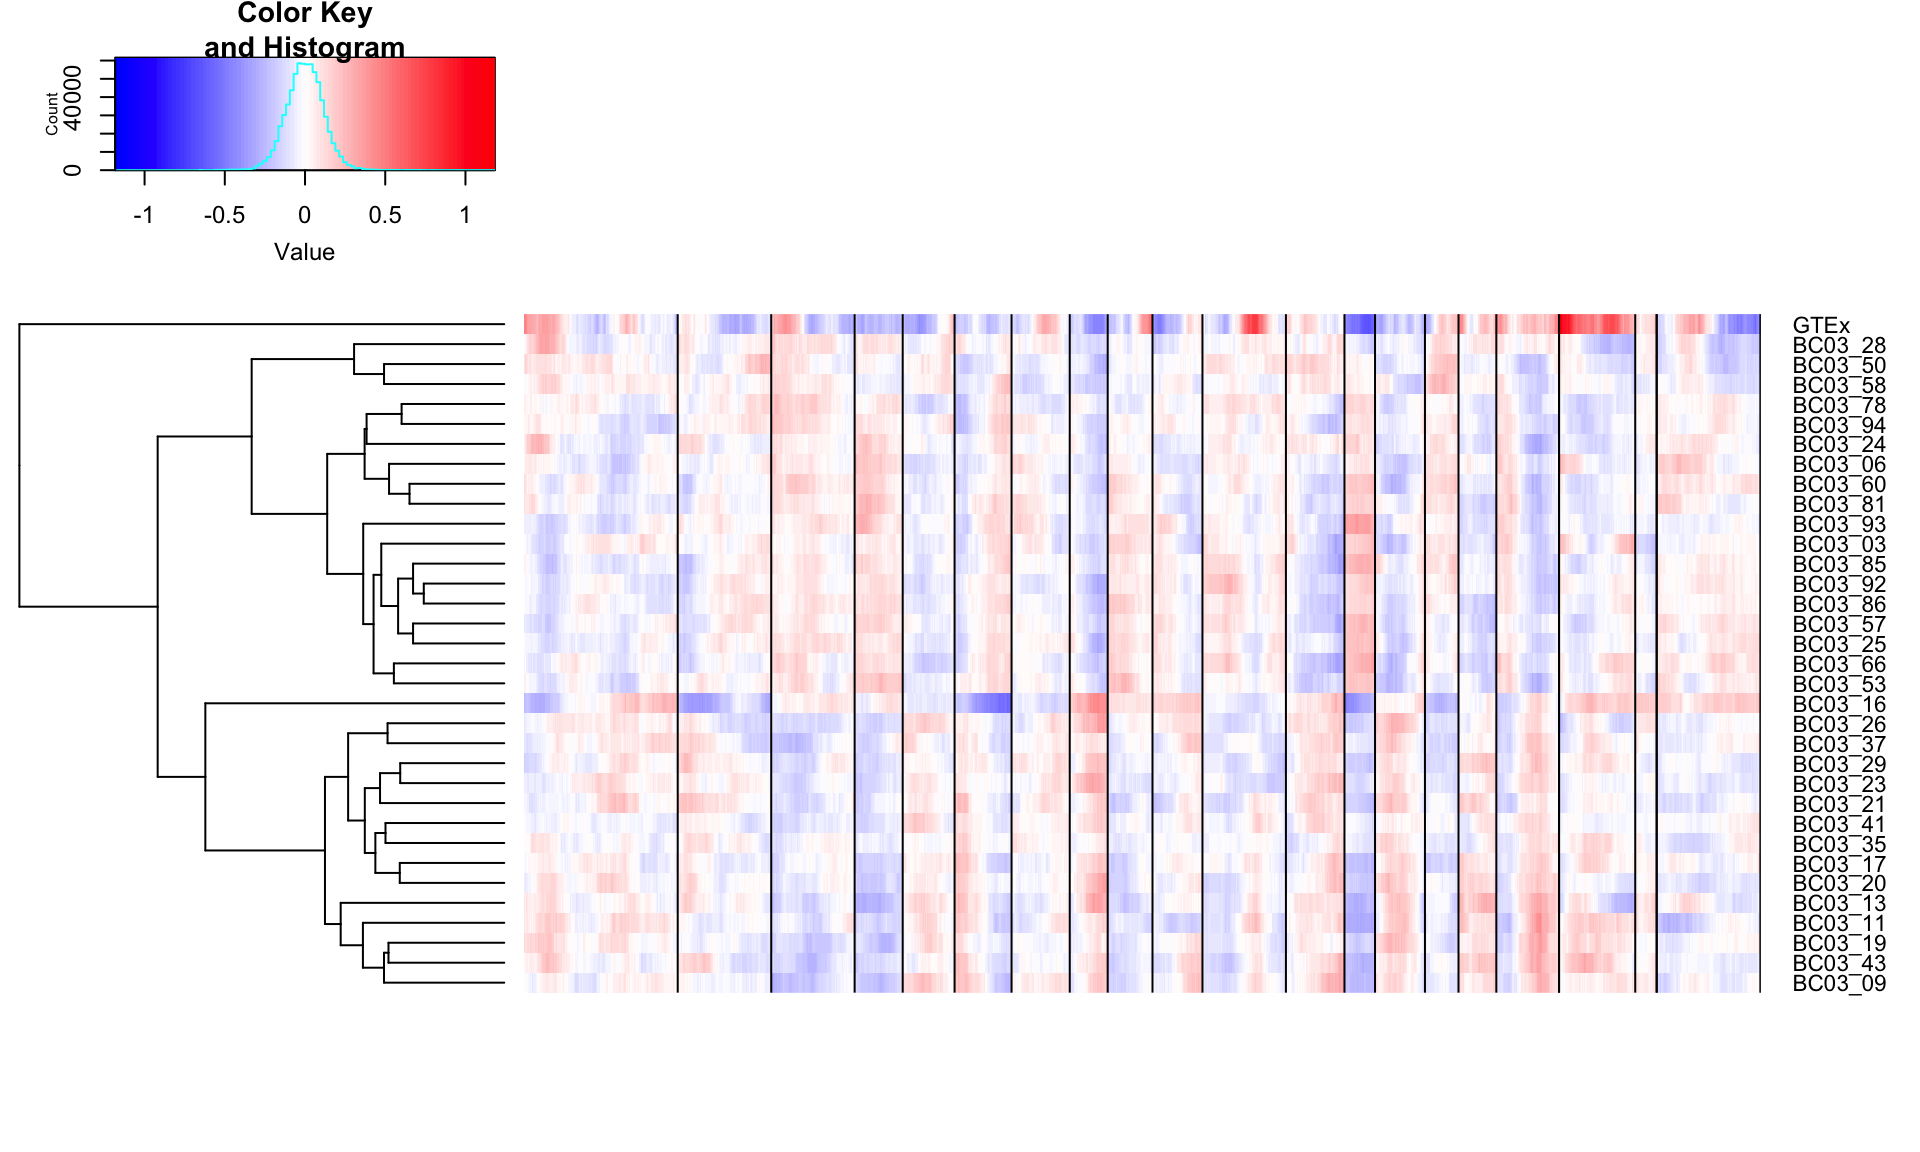
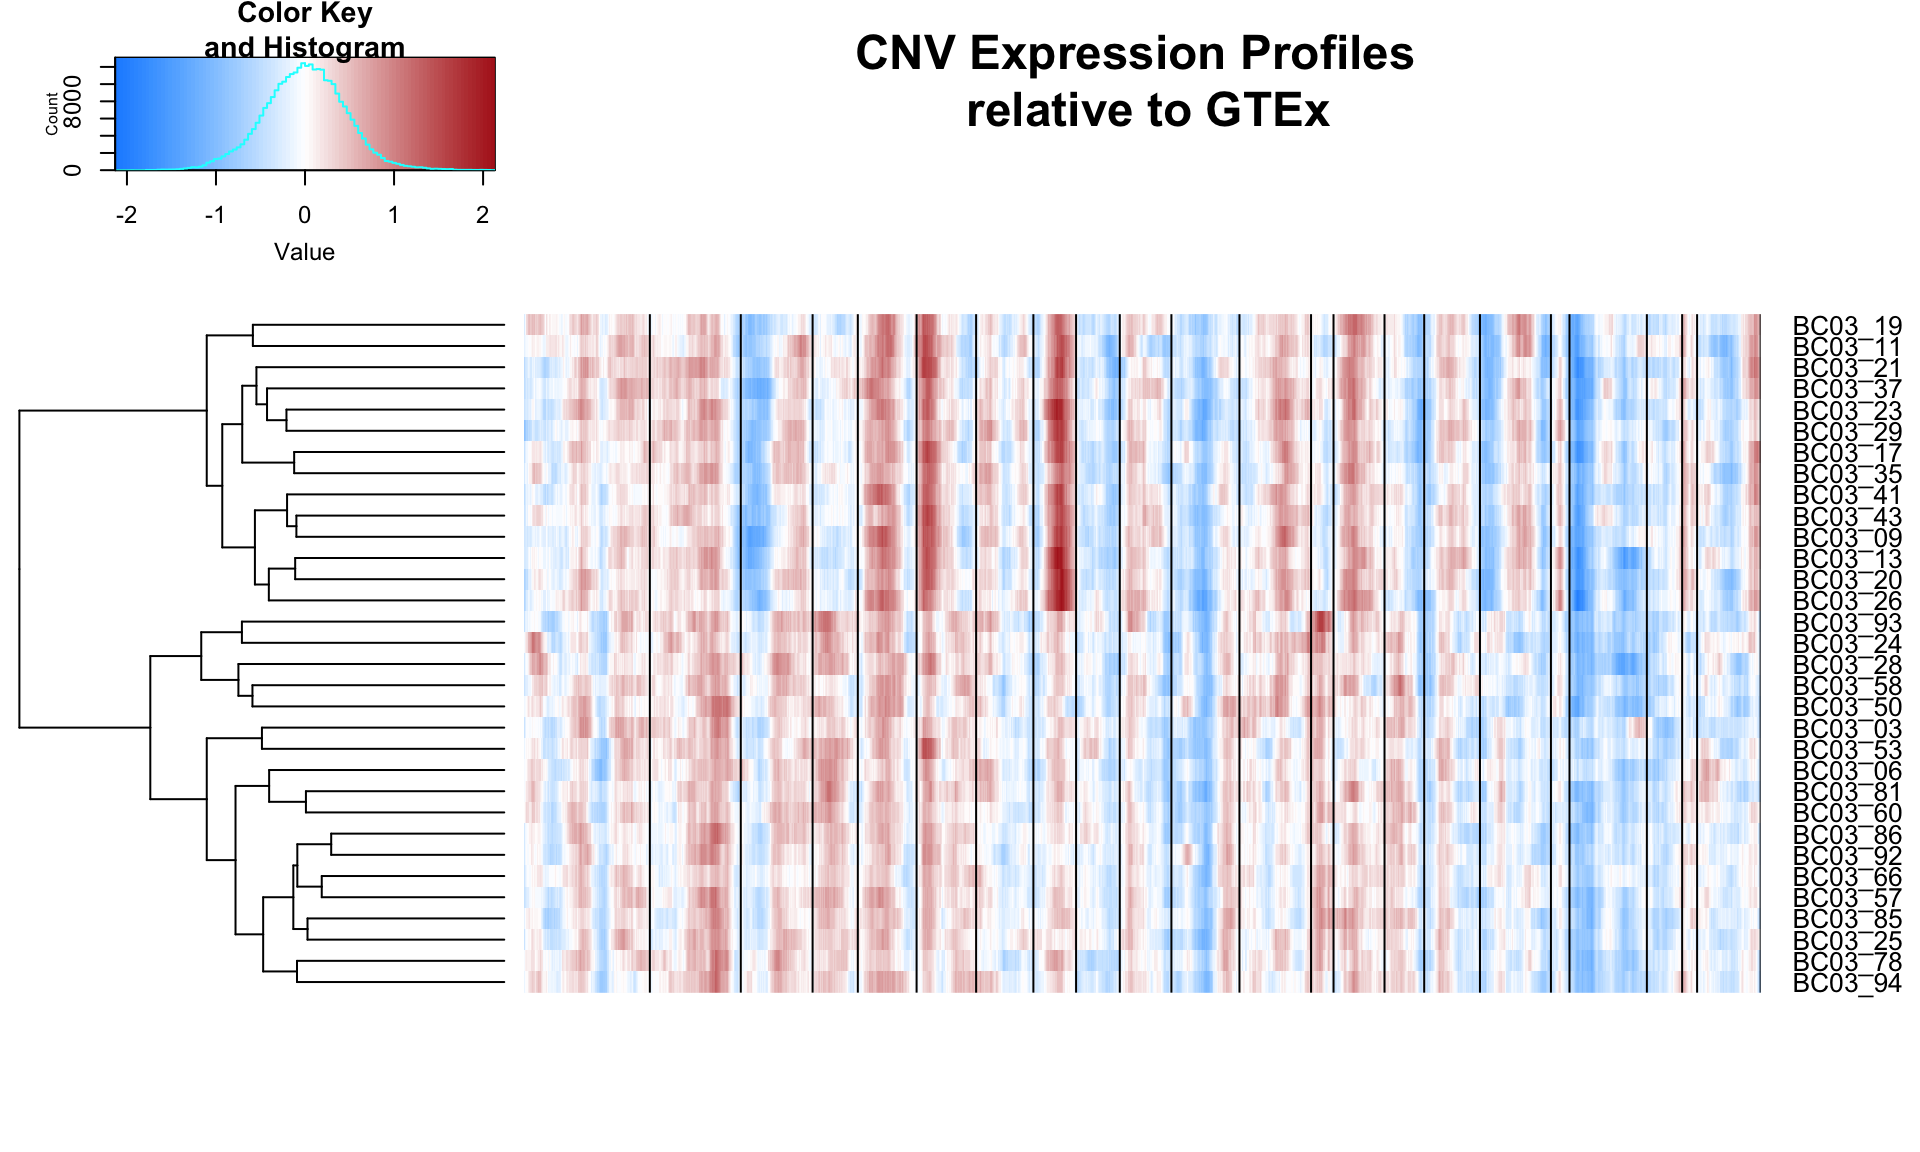
added phylo

diff --git a/docs/BC03Phylo.html b/docs/BC03Phylo.html
@@ -389,13 +389,17 @@ BC03_25   NA   NA   NA   NA   NA</code></pre>
 <p>As a reference, we use GTEx normal breast tissue TPMs. We average across all breast tissue. The single-cell data is centered using this averages, thus the final matrix is a relative expression matrix to GTEx. The relative expression matrix is then smoothed.</p>
 <p>The CNV profiles are shown below. The black vertical bars seperate chromosomes. The order of chromosomes is from left to right as 1, 2, 3, .. ,X, Y. I used all the genes that occur in both GTEx and the single-cell data (~10k genes), with a gene block of 150 genes. The dendrogam on the left represents heirarichal clustering of the expression profiles.</p>
 <pre class="r"><code>source(&#39;/Users/aselewa/sc_call_variants/inferCNV.R&#39;)</code></pre>
-<p><img src="Figs/unnamed-chunk-3-1.png" width="960" /></p>
+<p><img src="Figs/unnamed-chunk-4-1.png" width="960" /></p>
 <p>We have complete phylogeny for 4 cells in the mutation matrix, namely, BC03_13, BC03_28, BC03_50, and BC03_58. According to their mutation profiles, 13 is distant from 28,50,and 58, while these 3 cells have 0 distance between them. Does this pattern in the heirarchical clustering of CNV profiles hold? Yes, the trend holds.</p>
 <div class="figure">
 <img src="img/cnv_mutation_fig.png" />
 
 </div>
 <p>The figure above compares the two trees. The left tree is a little finer due to the nature of the data, but overall the trend holds. Perhaps we can use this CNV data to infer missing data in the original phylogenetic reconstruction problem.</p>
+<p>For instance, BC03_57 has the following mutational profile:</p>
+<pre class="r"><code>subphylo[&quot;BC03_57&quot;,]</code></pre>
+<pre><code>[1]  0 NA  1  1  0</code></pre>
+<p>From the CNV profiles, BC03_57 shares a more recent ancestor with BC03_50, BC03_28, and BC058, thus the missing data is likely to be ‘1’, because the CNV tree tells us it is further from BC03_13 than BC03_58/28/50.</p>
 </div>
 
 
